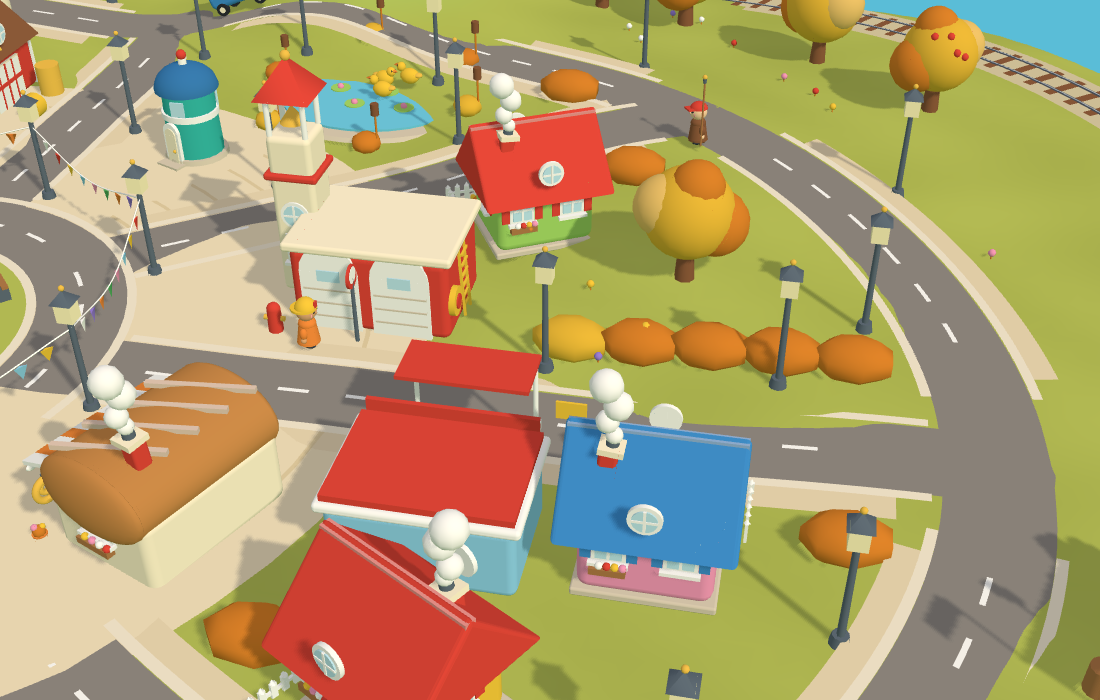
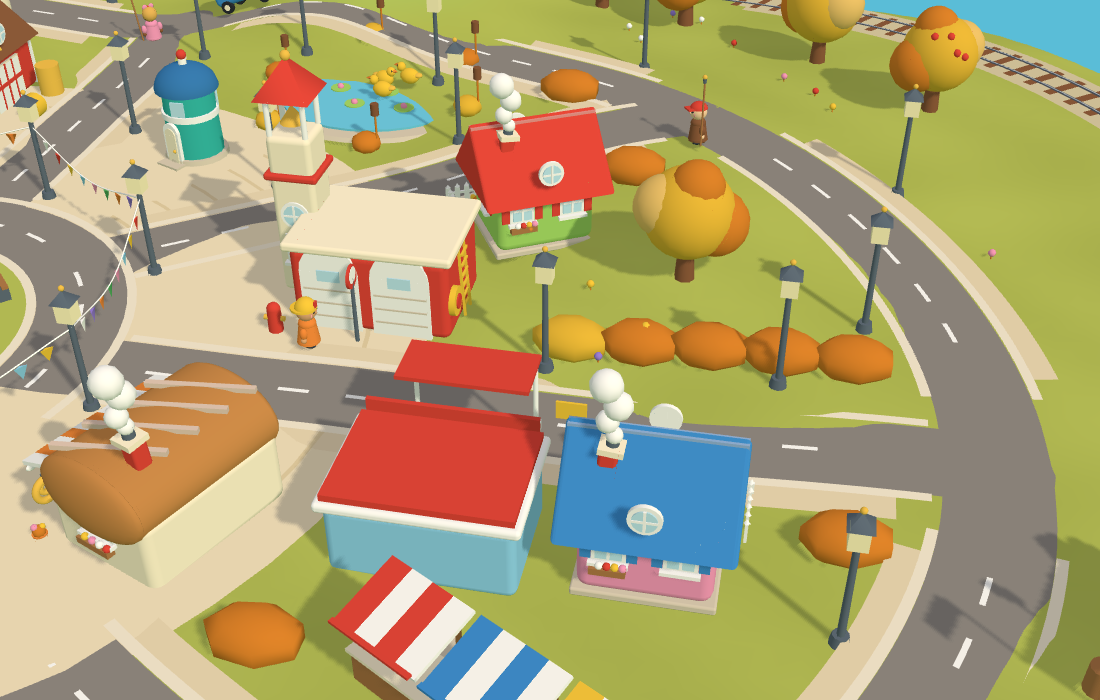
New Toy Town: market day, station signals and bell, settings panel, needs and moods, phone pass (#228)
* Toy Town: a calm town with traffic lights, cyclists and gentle moments

Fewer cars and walkers, four cyclists, and traffic lights at every
crossing that cars, bikes and walkers all wait for, so cross traffic no
longer piles into the crossings; nobody honks. The everyday rotation is
now gentle and unhurried: kites, picnics, a gardener watering window
boxes, a painter, a reader on a bench, butterflies, a napping cat, one
drifting balloon, the street sweeper, alongside the ice cream van,
busker, hot air balloon and band. Houses get window boxes; a tap brings
something gentle.

Claude-Session: https://claude.ai/code/session_016DDzLFPb4BuxMAThu2pji2

* Toy Town: a still camera you can drag, no more auto-zoom

The camera no longer zooms and glides to each event, which was
distracting. It holds the town still; a drag looks around (useful on
phones) and a tap still pokes the town.

Claude-Session: https://claude.ai/code/session_016DDzLFPb4BuxMAThu2pji2

* Toy Town: soft clay look, and the day's headlines in town

Everything is drawn soft: gradient faces with rounded bevelled edges,
soft contact shadows, shaded swaying trees, rounded people and wheels.
The real headlines are in town: a Toy Town Times board, a newspaper
seller calling Extra!, the ticker repeating them, and banners over
each news scene with the story's own name (GO INDIA!, HAPPY DIWALI!,
ARTEMIS III) that fans also carry on signs.

Claude-Session: https://claude.ai/code/session_016DDzLFPb4BuxMAThu2pji2
[…]

diff --git a/toy-town-new.html b/toy-town-new.html
@@ -34,38 +34,72 @@ canvas:active{cursor:grabbing}
 #card #send{position:static;width:auto;height:auto;margin-top:6px;padding:5px 10px;border-radius:10px;background:#ffd54a;color:#3c4654;font:700 12px/1.2 Nunito,system-ui,sans-serif}
 #fail{position:fixed;inset:0;display:none;align-items:center;justify-content:center;padding:24px;text-align:center;background:#bfe9fb;line-height:1.6}
 #fail small{opacity:.75}
+#set{position:fixed;right:calc(12px + env(safe-area-inset-right,0px));top:calc(54px + env(safe-area-inset-top,0px));width:34px;height:34px;border:0;border-radius:50%;background:var(--paper);font-size:17px;line-height:1;cursor:pointer;padding:0}
+#panel{position:fixed;right:calc(12px + env(safe-area-inset-right,0px));top:calc(96px + env(safe-area-inset-top,0px));width:min(290px,calc(100vw - 24px));padding:10px 12px 12px;border-radius:14px;background:var(--paper);font:400 13px/1.35 Nunito,system-ui,sans-serif;color:#3c4654;opacity:0;pointer-events:none;transition:opacity .2s}
+#panel.on{opacity:1;pointer-events:auto}
+#panel{z-index:5}
+#panel b{display:block;margin:8px 0 4px;font-weight:700;font-size:13px}#panel b:first-child{margin-top:0}
+#panel .seg{display:flex;gap:4px}
+#panel .seg button{flex:1;min-height:36px;border:0;border-radius:9px;background:#e9edf2;color:#3c4654;font:700 12px/1 Nunito,system-ui,sans-serif;cursor:pointer}
+#panel .seg button.on{background:#ffd54a}
+html.ui-off #set,html.ui-off #panel{display:none}
+@media (max-width:560px){
+#chip,#jobs{box-sizing:border-box;max-width:calc(100vw - 80px)}
+#chip{border-radius:16px}
+#chip .long,#hint .long{display:none}
+#jobs{top:calc(66px + env(safe-area-inset-top,0px))}
+#story{top:calc(118px + env(safe-area-inset-top,0px))}
+#card{bottom:calc(60px + env(safe-area-inset-bottom,0px))}
+#toast{bottom:calc(156px + env(safe-area-inset-bottom,0px))}
+#panel{top:calc(118px + env(safe-area-inset-top,0px))}
+}
+@media (min-width:561px){#hint .short{display:none}}
+#card.on ~ #hint{opacity:0}
+@media (pointer:coarse){
+#snd,#set{width:44px;height:44px;font-size:20px}
+#set{top:calc(64px + env(safe-area-inset-top,0px))}
+#card button{width:44px;height:44px;right:0;top:0}
+#card #send{min-height:44px;padding:10px 14px}
+#panel .seg button{min-height:44px}
+#seasons a{display:inline-block;min-width:30px;min-height:30px;line-height:30px;text-align:center;margin-left:2px}
+}
 html.ui-off #jobs,html.ui-off #toast,html.ui-off #snd,html.ui-off #chip,html.ui-off #hint,html.ui-off #story,html.ui-off #card{display:none}
 </style>
-<script type="importmap" data-stamp="7016c53ad8">
+<script type="importmap" data-stamp="f2690f2891">
 {"imports":{
   "three":"https://cdn.jsdelivr.net/npm/three@0.187.0/build/three.module.js",
   "three/addons/":"https://cdn.jsdelivr.net/npm/three@0.187.0/examples/jsm/",
-  "./assets/town2/build.mjs":"./assets/town2/build.mjs?v=7016c53ad8",
-  "./assets/town2/curve.mjs":"./assets/town2/curve.mjs?v=7016c53ad8",
-  "./assets/town2/def.mjs":"./assets/town2/def.mjs?v=7016c53ad8",
-  "./assets/town2/graph.mjs":"./assets/town2/graph.mjs?v=7016c53ad8",
-  "./assets/town2/inspect.mjs":"./assets/town2/inspect.mjs?v=7016c53ad8",
-  "./assets/town2/sim.mjs":"./assets/town2/sim.mjs?v=7016c53ad8",
-  "./assets/town2/sky.mjs":"./assets/town2/sky.mjs?v=7016c53ad8",
-  "./assets/town2/sound.mjs":"./assets/town2/sound.mjs?v=7016c53ad8",
-  "./assets/town2/stories.mjs":"./assets/town2/stories.mjs?v=7016c53ad8",
-  "./assets/town2/weather.mjs":"./assets/town2/weather.mjs?v=7016c53ad8"
+  "./assets/town2/build.mjs":"./assets/town2/build.mjs?v=f2690f2891",
+  "./assets/town2/curve.mjs":"./assets/town2/curve.mjs?v=f2690f2891",
+  "./assets/town2/def.mjs":"./assets/town2/def.mjs?v=f2690f2891",
+  "./assets/town2/graph.mjs":"./assets/town2/graph.mjs?v=f2690f2891",
+  "./assets/town2/inspect.mjs":"./assets/town2/inspect.mjs?v=f2690f2891",
+  "./assets/town2/needs.mjs":"./assets/town2/needs.mjs?v=f2690f2891",
+  "./assets/town2/settings.mjs":"./assets/town2/settings.mjs?v=f2690f2891",
+  "./assets/town2/sim.mjs":"./assets/town2/sim.mjs?v=f2690f2891",
+  "./assets/town2/sky.mjs":"./assets/town2/sky.mjs?v=f2690f2891",
+  "./assets/town2/smoke.mjs":"./assets/town2/smoke.mjs?v=f2690f2891",
+  "./assets/town2/sound.mjs":"./assets/town2/sound.mjs?v=f2690f2891",
+  "./assets/town2/stories.mjs":"./assets/town2/stories.mjs?v=f2690f2891",
+  "./assets/town2/weather.mjs":"./assets/town2/weather.mjs?v=f2690f2891"
 }}
 </script>
 </head>
 <body>
 <canvas id="town" aria-label="Toy Town: a little storybook town with a clock tower, a teapot café and a windmill"></canvas>
-<div id="chip">Toy Town · new build preview<a href="toy-town.html">current town</a><span id="seasons"></span></div>
+<div id="chip">Toy Town<span class="long"> · new build preview</span><a href="toy-town.html">current town</a><span id="seasons"></span></div>
 <button id="snd" aria-label="Sound" aria-pressed="false" title="Sound off">🔇</button>
+<button id="set" aria-label="Settings" aria-expanded="false" title="Pace and balance">⚙</button>
+<div id="panel" role="group" aria-label="Pace and balance"><b>Speed of the day</b><div class="seg" data-key="speed"><button data-v="0.5">½×</button><button data-v="1">1×</button><button data-v="2">2×</button><button data-v="4">4×</button></div><b>How much work for the train</b><div class="seg" data-key="busy"><button data-v="quiet">Quiet</button><button data-v="normal">Normal</button><button data-v="busy">Busy</button></div><b>Stories from today's news</b><div class="seg" data-key="news"><button data-v="true">On</button><button data-v="false">Off</button></div></div>
 <div id="story" aria-live="polite"></div>
 <div id="card" aria-live="polite"><button aria-label="Close">×</button><b></b><div></div><button id="send" hidden>Send a parcel from here…</button></div>
 <div id="jobs" title="Tap to open or close"></div>
 <div id="toast" aria-live="polite"></div>
-<div id="hint">Tap anyone or anything · drag to explore · pinch or scroll to zoom · twist (or right-drag, Q/E) to turn</div>
+<div id="hint"><span class="long">Tap anyone or anything · drag to explore · pinch or scroll to zoom · twist (or right-drag, Q/E) to turn</span><span class="short">Tap anyone or anything · drag · pinch to zoom · twist to turn</span></div>
 <div id="fail"><div>The new town could not start.<br><a href="toy-town.html">Open the current town</a>, or try a hard refresh (Ctrl+F5).<br><small id="why"></small><br><small>If it mentions WebGL, turn on hardware acceleration in the browser's settings (in Edge: edge://settings/system).</small></div></div>
 <script>if(/[?&]clean=1\b/.test(location.search))document.documentElement.classList.add('ui-off');</script>
 <script type="module">
-  import('./assets/town2/main.mjs?v=7016c53ad8').catch(e => { console.error(e); document.getElementById('why').textContent = (e && (e.name + ': ' + e.message)) || String(e); document.getElementById('fail').style.display = 'flex'; });
+  import('./assets/town2/main.mjs?v=f2690f2891').catch(e => { console.error(e); document.getElementById('why').textContent = (e && (e.name + ': ' + e.message)) || String(e); document.getElementById('fail').style.display = 'flex'; });
 </script>
 </body>
 </html>

diff --git a/README.md b/README.md
@@ -118,7 +118,7 @@ People no longer walk on the river: every walking leg (events, gatherings, whims
 
 **Faster, same picture.** A profile of the merged city showed about 6,800 draw calls and 3.4 M triangles per frame. The static batcher now bakes plain painted colours into vertex colours (one shared material per surface finish), residents, cars and bicycles merge their plainly painted pieces inside each rigid node, and the sphere/capsule geometry used for people is trimmed (they are 20–60 px tall). Result: about 4,700 draw calls and 2.6 M triangles at the default view with a pixel-identical render (mean difference 0.05/255 against master). The simulation shares one per-frame snapshot of cars and walkers in the carriageway instead of rescanning every mover for every car (1.7 → 0.9 ms per simulated frame).
 
-**A new storybook town (preview).** `toy-town-new.html` (or `toy-town.html?town=new`) is a rebuild in a toy-box style: a roundabout square with a clock tower, a teapot café, a toy shop with a spinning top, a loaf-shaped bakery, a bandstand, a post office, a fire station, a round kiosk, a mushroom cottage and seventeen cottages, a school, a farm and barn, a garage, a harbour hut on a pier and a windmill on its hill. Eight streets run out from the square to a ring road like the spokes of a wheel, and a railway loops round the whole town with a four-car train that stops at four stations, carries commuters and a wagon of mail, milk, bread and parcels you send yourself (tap a building, press send, tap where it should go; a work board shows what is on the move). Twenty-six named residents go door to door on the pavements by the hour (and sleep at night), keep to their own side and stop to say hello; two buses, taxis, a post van, a milk float, a tractor, an ice-cream van and an on-call fire engine travel the lanes, keeping gaps and taking turns at junctions. The day turns from dawn through dusk to a lit-window night with three lamplighters lighting the street lamps, it rains with umbrellas up and puddles, there are four seasons, two dozen small stories (some staged by the day's light headlines), you can tap anyone or anything to see what they are up to and follow them, a speaker button turns on synthesised wind, birds, crickets, rain and the clock striking, and the render resolution adapts on slow phones. The whole static town is one mesh (about 65 draw calls, 490 k triangles). The current town stays the default; `TOY_TOWN_NEW_SPEC.md` is the spec and what is still open (real-phone measurement, the switch).
+**A new storybook town (preview).** `toy-town-new.html` (or `toy-town.html?town=new`) is a rebuild in a toy-box style: a roundabout square with a clock tower, a teapot café, a toy shop with a spinning top, a loaf-shaped bakery, a bandstand, a post office, a fire station, a round kiosk, a mushroom cottage and seventeen cottages, a school, a farm and barn, a garage, a harbour hut on a pier and a windmill on its hill. Eight streets run out from the square to a ring road like the spokes of a wheel, and a railway loops round the whole town with a four-car train that stops at four stations, carries commuters and a wagon of mail, milk, bread and parcels you send yourself (tap a building, press send, tap where it should go; a work board shows what is on the move), a market that opens every third day, station signals with a bell, and residents who get hungry, tired and lonely and go and do something about it; a gear button sets the speed of the day and how much work the train gets. Twenty-six named residents go door to door on the pavements by the hour (and sleep at night), keep to their own side and stop to say hello; two buses, taxis, a post van, a milk float, a tractor, an ice-cream van and an on-call fire engine travel the lanes, keeping gaps and taking turns at junctions. The day turns from dawn through dusk to a lit-window night with three lamplighters lighting the street lamps, it rains with umbrellas up and puddles, there are four seasons, two dozen small stories (some staged by the day's light headlines), you can tap anyone or anything to see what they are up to and follow them, a speaker button turns on synthesised wind, birds, crickets, rain and the clock striking, and the render resolution adapts on slow phones. The whole static town is one mesh (about 65 draw calls, 490 k triangles). The current town stays the default; `TOY_TOWN_NEW_SPEC.md` is the spec and what is still open (real-phone measurement, the switch).
 
 **Resident level of detail.** Plain residents have a second, far figure of three small meshes (body and two legs, about 350 triangles instead of about 10 000, built from the same colours; the legs still swing). Each resident is switched by its projected height on screen (far under 46 px, back to the full rig over 62 px), by one central pass over a registry, so it covers actors, ambient walkers and the city's people. At the default view 88 of 95 residents are far: draw calls 4,462 → 3,062 and triangles 2.56 M → 1.90 M, and close-ups still use the full rig. Residents with a kind, a trade, a briefcase or a hero route never switch.
 

diff --git a/TOY_TOWN_NEW_SPEC.md b/TOY_TOWN_NEW_SPEC.md
@@ -143,6 +143,13 @@ the stamp is stale. If the page cannot start, its panel now shows the real error
 - **Passengers**: round entries `['platform:central', 0, 'ride:harbour']` (and stories such as `harbourtrip`, `milltrip`, `schooltrip`) wait on the platform (`onPlatform`, standing, not on the road), board when the train stops there (also while it stands there), ride on the coaches (`state: 'riding'`, at most `train.seats`) and step off at their stop. Platform spots are `'platform:<stationId>'` in `graph.doors`. Nobody waiting on a platform is given other errands.
 - **Owner**: `sendParcel(from, to)` makes a parcel job (button on a building's card, then tap the destination); `freightStats` and `freightLog` feed the work board.
 
+### Market, signals, settings, needs (sim.mjs, needs.mjs, settings.mjs, smoke.mjs, tested)
+
+- **Market** (`the Market`, a building with a doorstep, three stalls on a cobbled patch): open every third day (`def.MARKET`, day 0 is the first morning) from 9 to 15. `sim.market = {open, visits, opens}`. On opening a story caption says so, then every 9 to 19 s the nearest free resident goes to stand at the stalls (at most 7 there or on the way); people at the market are `onPlatform` (standing, visible) with `at === 'market'`. Goods and sellers are one small mesh shown only while open. Milk and bread jobs may be delivered to the market, only while it is open.
+- **Station signals**: `sim.signalFor(stationId)` is `'red'` while the train stands at the station or is within 2.4 units of stopping there, else `'green'`. Posts are in the railway mesh, the lamps are one instanced mesh. The bell (`sound.stationBell`) rings once when the train pulls in; the engine's smoke is `smoke.mjs` (a ring of puffs, more when moving).
+- **Settings** (gear button, `settings.mjs`, remembered in `localStorage`, bad or blocked storage falls back to defaults): speed of the day (0.5, 1, 2, 4; a frame takes up to 10 steps of at most 50 ms), work for the train (`sim.setBusy`: quiet 0.4, normal 1, busy 2 times as many jobs) and whether the news stages stories.
+- **Needs and moods** (`needs.mjs`): hunger, tiredness and loneliness run 0 to 1. Hunger rises over 12 waking hours, tiredness over 15, loneliness over 10 when alone; sleep rests; a bite at the bakery, cafe or market and company at the cafe, market, school, bandstand, toy shop or post office bring them down; a hello on the pavement eases loneliness. A need above its threshold (hunger over .75, loneliness over .85) sends an idle resident to the nearest food or company (`sim.needsStats`); hunger over .9 breaks a wait. `r.mood = {score, label, why}` (cheerful, content, grumpy, hungry, tired, lonely) shows in the card; the work board shows the town's mood.
+
 ## 5. Art rules
 
 - Fat, rounded, slightly wonky. No sharp corners: `bag.box` is a rounded box; roofs overhang.
@@ -173,6 +180,7 @@ spheres 8; keep that discipline (the first version was 1.05 M triangles from 3-s
 - `sim`, `scene`, `camera`, `renderer`, `view`
 - `info()` → `{calls, triangles, residentsOut, clock, pixelRatio, story, rain, wet, lampsLit, season}`
 - `tapAt(clientX, clientY)`, `selected()`, `select(obj|null)`, `project(x, z, y)` → client coordinates of a ground point
+- `settings`, `applySettings()`; `info()` also has `market, marketVisits`
 - `trainPos()` (head of the train), `sendParcel(from, to)`, `jobsText()` (the work board text); `info()` also has `delivered, cargoNow, riders`
 - `season`, `sound` (`enabled`, `started`, `toggle()`); `?season=spring|summer|autumn|winter`
 - `setHour(h)`, `setWeather('rain'|'clear'|..., seconds)`; `?h=<hour>` starts at an hour, `?news=0` turns the news staging off, `?tune=0` turns the adaptive resolution off

diff --git a/TOY_TOWN_COLLAB.md b/TOY_TOWN_COLLAB.md
@@ -1199,3 +1199,12 @@ A `START` does not prohibit parallel edits. Avoid stepping on each other's uncom
 - **A real bug found while rendering**: `setHour` (used by tests and screenshots, not by the page itself) while the lamplighter was at a lamp left him walking on no route, and the next frame threw (`along` of null). `snapLamps` now sends the lamplighters indoors and they start afresh. Regression test: jumps in time from three hours to four hours, 30 s each, with nobody walking on no route.
 - **Tests**: logic suite and the visual test pass (72 draw calls, 495 k triangles). **Not verified**: a real phone; the shallows band is subtle by design and I only judged it on headless screenshots.
 
+### 2026-11-10 · Claude · DONE (new storybook town, follow-up 7: market day, station signals, settings panel, needs and moods, phone pass)
+- **Request (owner)**: "BUILD ALL" after I proposed five items: a market, level crossings and a station bell, a pace and balance control, resident needs and moods, and a phone pass.
+- **Market day**: a new building (`market`, placed by the layout solver on a street, so the cottages near it moved) with three striped stalls; open every third day from 9 to 15 with goods and sellers shown, shoppers standing at the stalls, milk and bread delivered to it, a card that says when it next opens. **Level crossings do not exist** (the railway loop never meets a road), so instead: a **signal** before each station (red while the train stands at or approaches it), a **bell** as it pulls in, and **smoke** from the engine (`smoke.mjs`).
+- **Settings** (gear button): speed of the day (0.5 to 4x), work for the train (quiet, normal, busy), news stories on or off; remembered, and safe when storage is blocked.
+- **Needs and moods** (`needs.mjs`): hunger, tiredness, loneliness; urgent hunger or loneliness sends an idle resident to eat or to the cafe or market; the card says how they feel, the work board how the town feels. Rates were tuned so nobody sits starving by day (under 10 percent of daytime samples in three simulated days) without doubling the traffic (about 35 meal trips in three days).
+- **Phone pass, emulated only**: a touch-emulation test (iPhone 13 profile) loads the page, taps with a finger (select a building, open the settings, pick 4x, send a parcel), checks no sideways scroll, no overlap between the chip, board, buttons, panel and card, and finger-sized buttons (44 px on coarse pointers); the layout was fixed where it failed (the chip ran under the sound button, the hint covered the card, buttons were 26 to 34 px). Measured 11 fps under a 4x slower CPU with software GL, which says little about a real phone.
+- **Tests changed because the cast now behaves differently**: the commuter count is at least 4 trips by 2 people over three days, the lamplighter's step limit is .13 in the rain, and the logic tests gained market, signal, smoke, bell, settings and needs checks.
+- **Not verified**: a real phone and Edge; whether the market spot (on a street rather than in the square, which has no room left) is where the owner wants it; the mood thresholds are my guesses.
+
